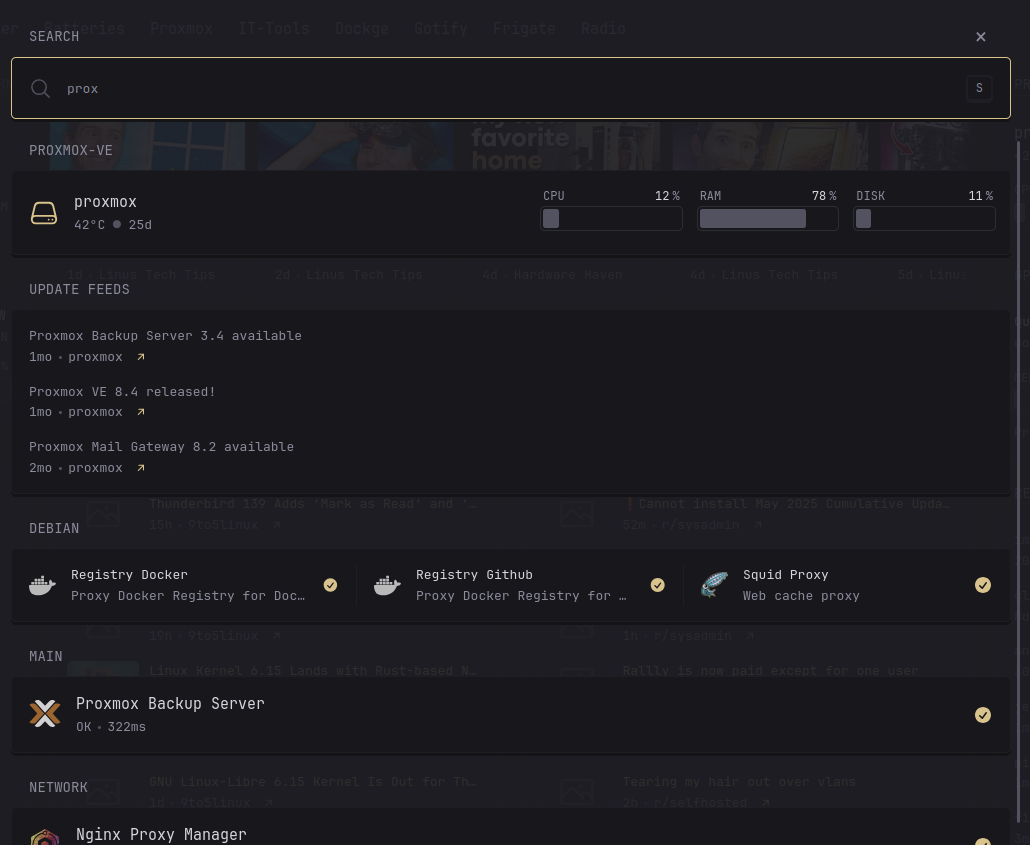
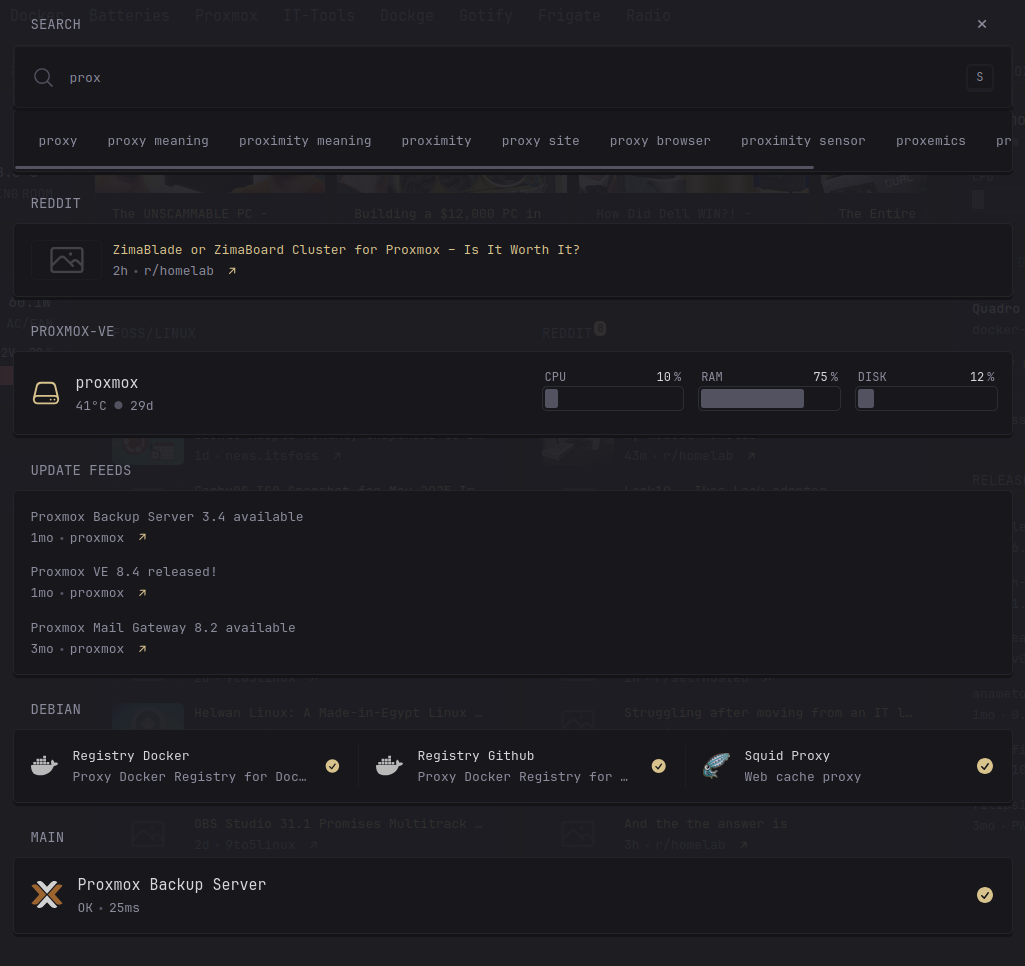
fix(glimpse): widget borders

diff --git a/glimpse/glimpse.css b/glimpse/glimpse.css
@@ -56,9 +56,9 @@
 
 #glimpse .close {
   cursor: pointer;
-  font-size: 24px;
-  width: 24px;
-  height: 24px;
+  font-size: 22px;
+  width: 25px;
+  height: 25px;
   display: flex;
   align-items: center;
   justify-content: center;
@@ -113,6 +113,13 @@
   background-color: var(--color-primary);
   border-radius: var(--border-radius);
   color: var(--color-background);
+}
+
+#glimpse .widget-content {
+  background: var(--color-widget-background);
+  border-radius: var(--border-radius);
+  border: 1px solid hsla(var(--bghs), calc(var(--scheme) (var(--scheme) var(--bgl) + 12%)), 0.5);
+  box-shadow: 0px 3px 0px 0px hsl(var(--bghs), calc(var(--scheme) (var(--scheme) var(--bgl)) - 0.5%));
 }
 
 #glimpse.fade-in {

diff --git a/glimpse/README.md b/glimpse/README.md
@@ -1,8 +1,13 @@
 [<= Micro-script list](../#micro-scripts)
 
+### Desktop
+
 ![desktop](preview1.png)
-![mobile](preview3.png)
 ![desktop-button](preview2.png)
+
+### Mobile
+
+![mobile](preview3.png)
 ![mobile-button](preview4.png)
 
 # Overview
